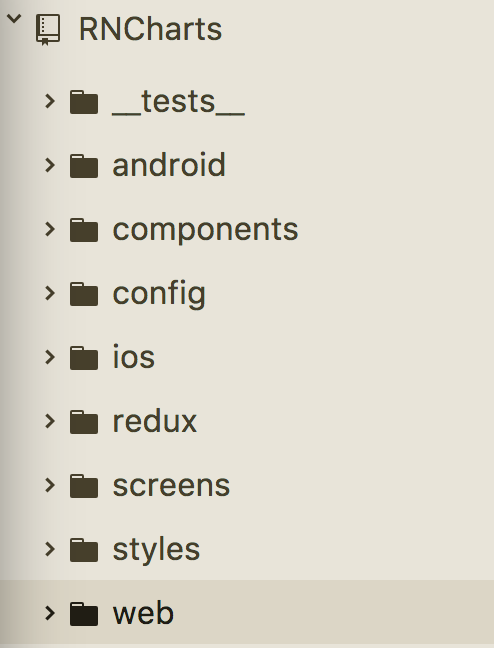
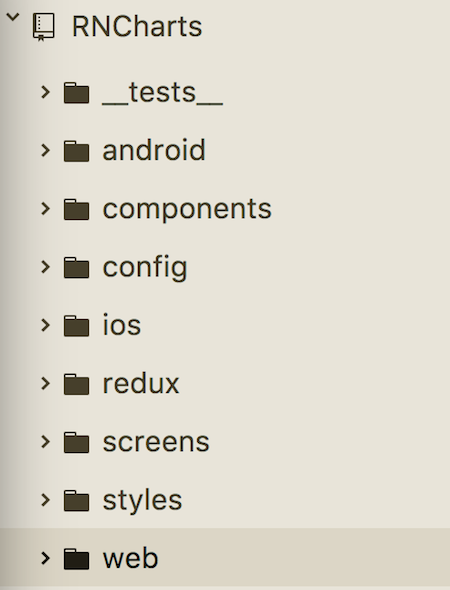
Resize images

diff --git a/README.md b/README.md
@@ -1,7 +1,7 @@
 # Using Recharts in React Native project
 
 ### 1. Introduction to Recharts:
-Recharts is a chart library built with React and D3. Recharts supports many kinds of chart such as AreaChart, BarChart, LineChart, and PieChart. The strength of Recharts is easy to extend and customize. For example, we can change active cursor, legend, and tick in Axises to our own component and styling. (http://jsfiddle.net/vxb1u6og/). Following is an example of how to customize tick in XAxis:
+Recharts is a chart library built with React and D3. Recharts supports many kinds of chart such as AreaChart, BarChart, LineChart, and PieChart. The strength of Recharts is easy to extend and customize. For example, we can change active cursor, legend, and tick in Axises to our own component and styling. Following is an example of how to customize tick in XAxis:
 
 ```javascript
 const CustomizedAxisTick = React.createClass({
@@ -33,7 +33,8 @@ Find more examples here http://recharts.org/#/en-US/examples and full Recharts A
 ### 2. Project Structure:
 In my React Native project, I add ‘web' directory for React project which uses Recharts library:
 ![Structure](https://github.com/thoqbk/RNCharts/blob/master/resources/structure.png)
-In development mode, web part runs at port 9000 and loaded by React Native code by Webview Bridge component (https://github.com/alinz/react-native-webview-bridge) . I choose Webview Bridge over built-in Webview (https://facebook.github.io/react-native/docs/webview.html) because it supports communication between React Native and Web part. For example, when a user clicks on a custom button in chart component we want to change the screen to another Scene or when he clicks on Navigation Button, chart content will be changed. All these things can do with Webview Bridge. Below is an example of how to work with Webview Bridge:
+
+In development, web part runs at port 9000 and loaded by React Native code by Webview Bridge component (https://github.com/alinz/react-native-webview-bridge) . I choose Webview Bridge over built-in Webview (https://facebook.github.io/react-native/docs/webview.html) because it supports communication between React Native and Web part. For example, when a user clicks on a custom button in chart component we want to change the screen to another Scene or when he clicks on Navigation Button, chart content will be changed. All these things can do with Webview Bridge. Below is an example of how to work with Webview Bridge:
 
 In Web part: listen and send a message to React Native part:
 ```javascript
